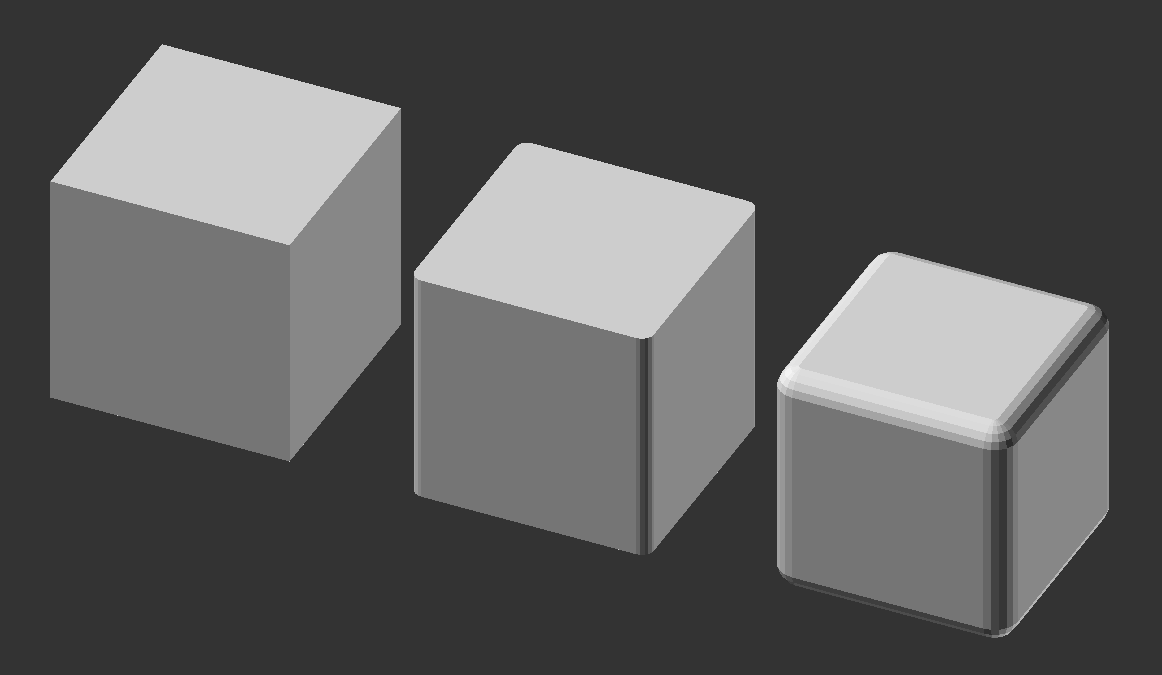
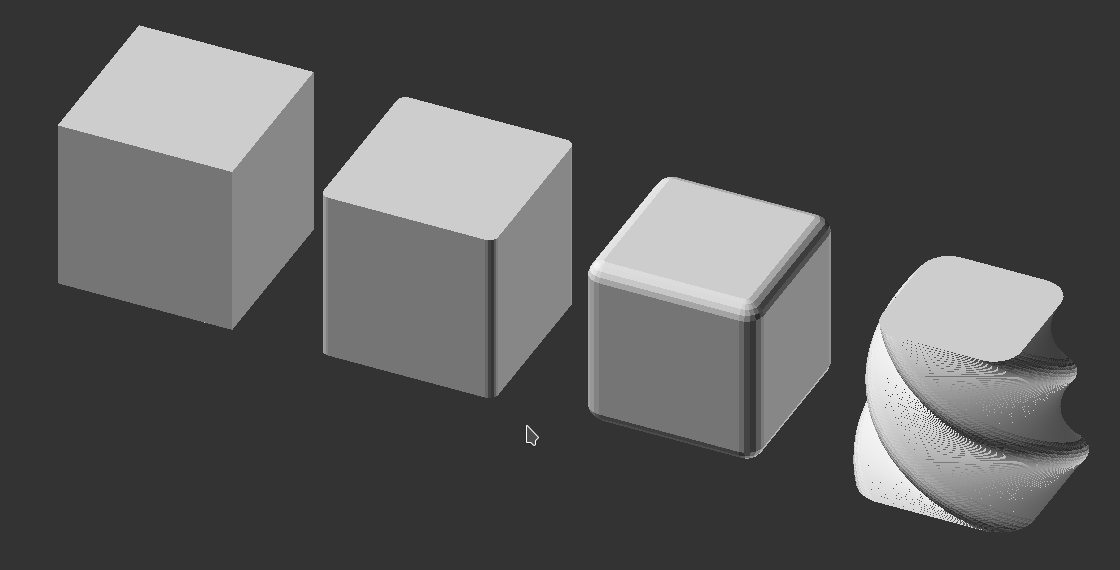
Add round square.

Changed region(s): [[0.0312, 0.0298, 0.9688, 0.9544]]

diff --git a/README.md b/README.md
@@ -8,7 +8,8 @@
   smallest dimension 
 * Skip rounding of top and bottom faces with `flat_tops` module
 * `cube(x)` works with both `x` as a number and a vector
-* Use `$fn=4` for chamfered edges - works great with `flat_tops`, but will cause some shrinking in `z` for `round_cube`.  
+* Use `$fn=4` for chamfered edges - works great with `flat_tops`, but will cause some shrinking in `z` for `round_cube`.
+* `round_square` is now an option as a 2D shape
 
 ## Usage
 
@@ -25,11 +26,17 @@ translate([15, 0, 0])
 flat_tops([10, 10, 10], $fn=20);
 translate([30, 0, 0])
 round_cube([10, 10, 10], radius=1, $fn=20);
+// For the twist to look pretty. 
+$fa = 1;
+$fs = 0.4;
+translate([45 + 5, 5, 0])
+linear_extrude(height=10, scale=0.8, twist=180)
+round_square([10, 10], $fn=30, radius=2, center=true); 
 ```
 
 This results in the following output:
 
-![cube, flat top cube, rounded cube](cubes.png)
+![cube, flat top cube, rounded cube, twisted-scaled-extruded round square](cubes.png)
 
 ## Known issues
 
